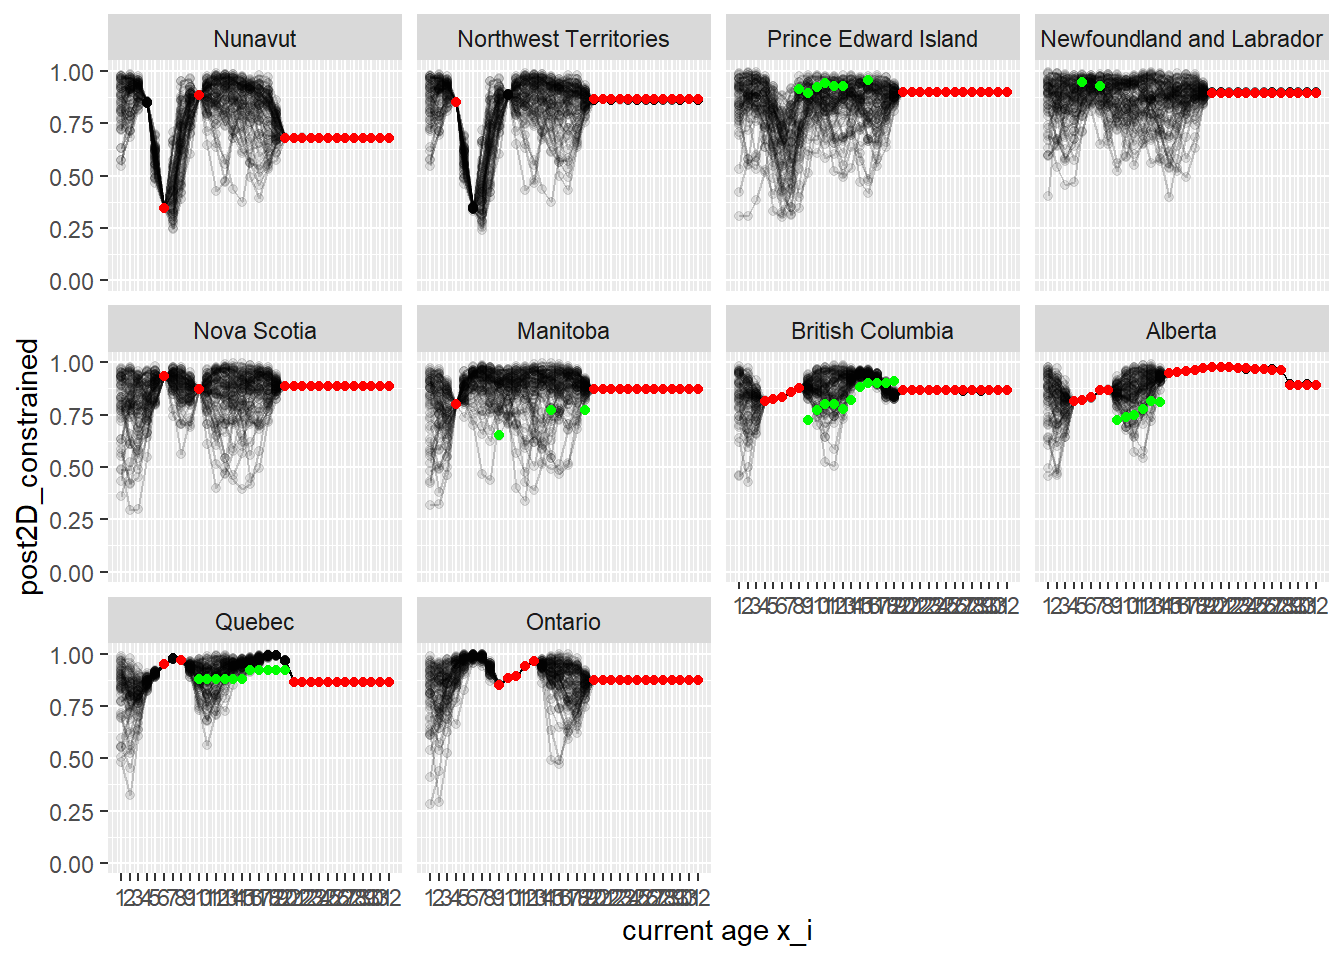
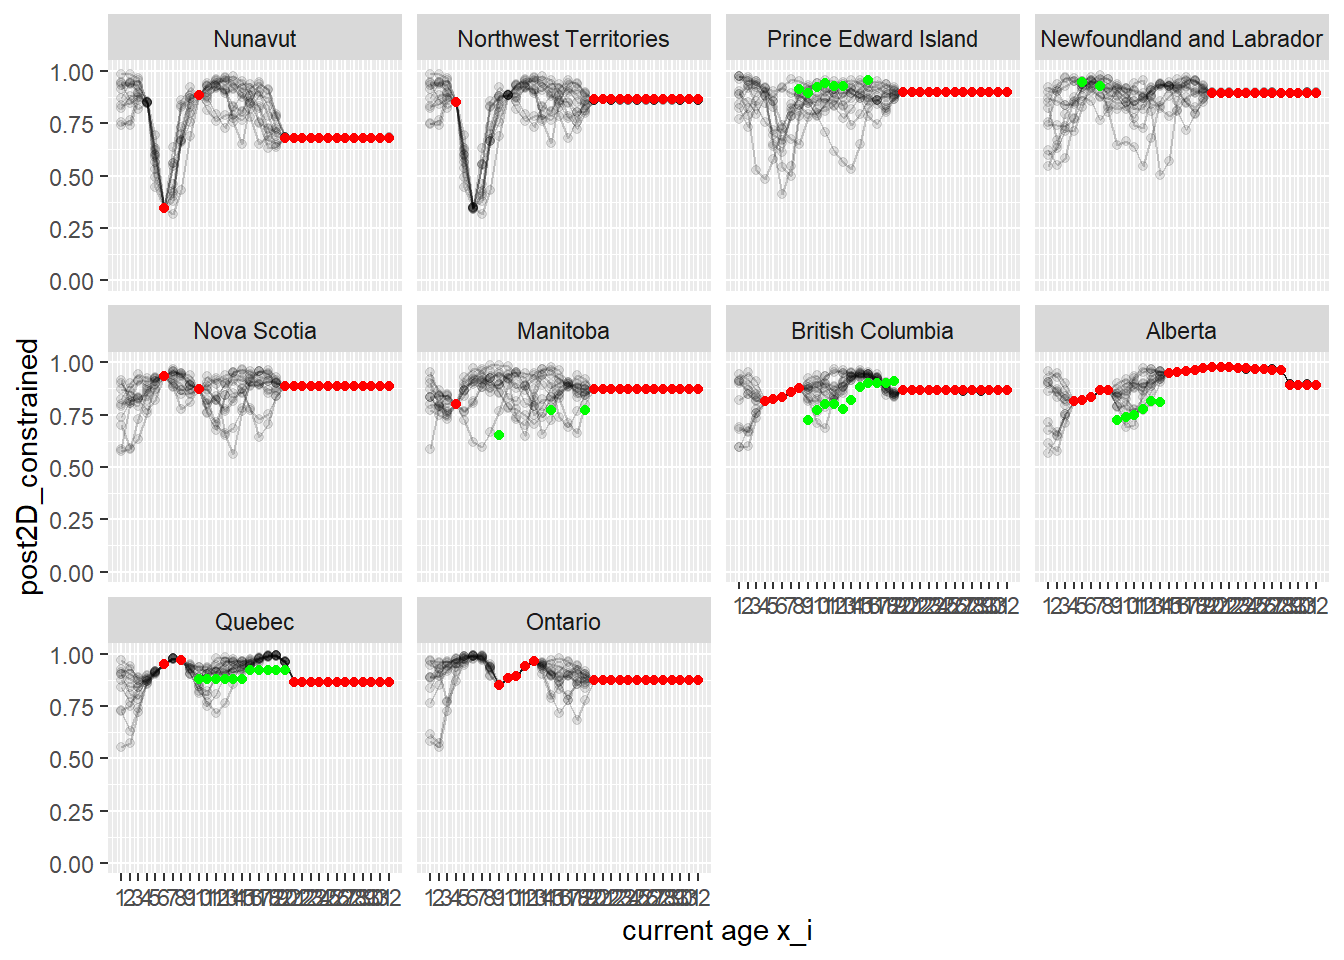
2-dose minimums attempt

diff --git a/rendered/gp-model.html b/rendered/gp-model.html
@@ -338,7 +338,7 @@ window.Quarto = {
 <span id="cb12-15"><a href="#cb12-15" aria-hidden="true" tabindex="-1"></a>yvals <span class="ot">&lt;-</span> yvals<span class="sc">*</span>l2  <span class="co"># scale y values to the x lengthscale</span></span>
 <span id="cb12-16"><a href="#cb12-16" aria-hidden="true" tabindex="-1"></a></span>
 <span id="cb12-17"><a href="#cb12-17" aria-hidden="true" tabindex="-1"></a><span class="co">#' covariance matrix in 2D</span></span>
-<span id="cb12-18"><a href="#cb12-18" aria-hidden="true" tabindex="-1"></a>b <span class="ot">&lt;-</span> <span class="dv">1</span> <span class="co"># optional function scale for ksqexp determining output variance</span></span>
+<span id="cb12-18"><a href="#cb12-18" aria-hidden="true" tabindex="-1"></a>b <span class="ot">&lt;-</span> <span class="fl">0.75</span> <span class="co"># optional function scale for ksqexp determining output variance</span></span>
 <span id="cb12-19"><a href="#cb12-19" aria-hidden="true" tabindex="-1"></a>covmat <span class="ot">&lt;-</span> <span class="fu">expand_grid</span>(<span class="at">x1=</span>xvals, <span class="at">y1=</span>yvals, <span class="at">x2=</span>xvals, <span class="at">y2=</span>yvals) <span class="sc">%&gt;%</span> <span class="fu">mutate</span>(<span class="at">k=</span><span class="fu">ksqexp</span>(<span class="fu">sqrt</span>((x1<span class="sc">-</span>x2)<span class="sc">^</span><span class="dv">2</span> <span class="sc">+</span> (y1<span class="sc">-</span>y2)<span class="sc">^</span><span class="dv">2</span>), l1, <span class="at">b=</span>b)) <span class="sc">%&gt;%</span></span>
 <span id="cb12-20"><a href="#cb12-20" aria-hidden="true" tabindex="-1"></a>  <span class="fu">pull</span>(k) <span class="sc">%&gt;%</span> <span class="fu">matrix</span>(<span class="at">nrow=</span>npts)</span>
 <span id="cb12-21"><a href="#cb12-21" aria-hidden="true" tabindex="-1"></a></span>
@@ -421,7 +421,7 @@ window.Quarto = {
 <div class="cell">
 <div class="sourceCode cell-code" id="cb16"><pre class="sourceCode r code-with-copy"><code class="sourceCode r"><span id="cb16-1"><a href="#cb16-1" aria-hidden="true" tabindex="-1"></a><span class="co">#' draw from the posterior distribution and record in dataframe post2D</span></span>
 <span id="cb16-2"><a href="#cb16-2" aria-hidden="true" tabindex="-1"></a>post2D <span class="ot">&lt;-</span> <span class="fu">tibble</span>()</span>
-<span id="cb16-3"><a href="#cb16-3" aria-hidden="true" tabindex="-1"></a><span class="cf">for</span>(i <span class="cf">in</span> <span class="dv">1</span><span class="sc">:</span><span class="dv">50</span>) {  <span class="co"># take 50 posterior draws</span></span>
+<span id="cb16-3"><a href="#cb16-3" aria-hidden="true" tabindex="-1"></a><span class="cf">for</span>(i <span class="cf">in</span> <span class="dv">1</span><span class="sc">:</span><span class="dv">10</span>) {  <span class="co"># take 50 posterior draws</span></span>
 <span id="cb16-4"><a href="#cb16-4" aria-hidden="true" tabindex="-1"></a>  post2D <span class="ot">&lt;-</span> <span class="fu">bind_rows</span>(post2D, <span class="fu">tibble</span>(<span class="at">draw=</span>i, <span class="at">x_i=</span>xygrid<span class="sc">$</span>x, <span class="at">y_i=</span>xygrid<span class="sc">$</span>y, <span class="at">post2D=</span><span class="fu">rmnorm</span>(<span class="dv">1</span>, post_mean, post_covmat <span class="sc">+</span> <span class="fl">1e-6</span><span class="sc">*</span><span class="fu">diag</span>(<span class="fu">nrow</span>(post_covmat)))))  <span class="co"># each rmnorm is a random draw from the (multivariate) posterior</span></span>
 <span id="cb16-5"><a href="#cb16-5" aria-hidden="true" tabindex="-1"></a>}</span>
 <span id="cb16-6"><a href="#cb16-6" aria-hidden="true" tabindex="-1"></a>post2D <span class="ot">&lt;-</span> post2D <span class="sc">%&gt;%</span> <span class="fu">mutate</span>(<span class="at">post2D_constrained=</span><span class="fu">invlogit</span>(post2D <span class="sc">+</span> <span class="fu">mean</span>(<span class="fu">logit</span>(zobs)))) <span class="sc">%&gt;%</span>  <span class="co"># add column to return mean and transform back to [0,1]</span></span>
@@ -507,24 +507,24 @@ window.Quarto = {
 <span id="cb20-15"><a href="#cb20-15" aria-hidden="true" tabindex="-1"></a><span class="co">#' @param l1 x-lengthscale parameter, for use with covariance functions ksqexp and kexp</span></span>
 <span id="cb20-16"><a href="#cb20-16" aria-hidden="true" tabindex="-1"></a><span class="co">#' @param l2 relative lengthscale of x values to y values, for use with covariance functions ksqexp and kexp</span></span>
 <span id="cb20-17"><a href="#cb20-17" aria-hidden="true" tabindex="-1"></a><span class="co">#' @param ndrws specify number of draws to be taken from the prior and posterior distributions</span></span>
-<span id="cb20-18"><a href="#cb20-18" aria-hidden="true" tabindex="-1"></a>run_GP <span class="ot">&lt;-</span> <span class="cf">function</span>(vax_dataset, <span class="at">first_agecurrent=</span><span class="dv">1</span>, <span class="at">last_agecurrent=</span><span class="dv">32</span>, <span class="at">yvals=</span><span class="cn">NA</span>, <span class="at">k=</span><span class="cn">NA</span>, <span class="at">k_name=</span><span class="cn">NA</span>, <span class="at">l1=</span><span class="cn">NA</span>, <span class="at">l2=</span><span class="cn">NA</span>, <span class="at">ndrws=</span><span class="dv">50</span>, <span class="at">b=</span><span class="dv">1</span>) {</span>
-<span id="cb20-19"><a href="#cb20-19" aria-hidden="true" tabindex="-1"></a>  <span class="co">#' define possible x values</span></span>
-<span id="cb20-20"><a href="#cb20-20" aria-hidden="true" tabindex="-1"></a>  xvals <span class="ot">&lt;-</span> first_agecurrent<span class="sc">:</span>last_agecurrent  <span class="co"># a vector of current ages</span></span>
-<span id="cb20-21"><a href="#cb20-21" aria-hidden="true" tabindex="-1"></a></span>
-<span id="cb20-22"><a href="#cb20-22" aria-hidden="true" tabindex="-1"></a>  <span class="co">#' define possible y values</span></span>
-<span id="cb20-23"><a href="#cb20-23" aria-hidden="true" tabindex="-1"></a>  province_relation <span class="ot">&lt;-</span> readr<span class="sc">::</span><span class="fu">read_csv</span>(here<span class="sc">::</span><span class="fu">here</span>(<span class="st">"data"</span>, <span class="st">"3610040201-noSymbol.csv"</span>), <span class="at">show_col_types =</span> F) <span class="sc">%&gt;%</span></span>
-<span id="cb20-24"><a href="#cb20-24" aria-hidden="true" tabindex="-1"></a>    <span class="fu">filter</span>(location <span class="sc">%in%</span> <span class="fu">unique</span>(vax_clean<span class="sc">$</span>location))  <span class="co"># province GDP data from StatCan</span></span>
-<span id="cb20-25"><a href="#cb20-25" aria-hidden="true" tabindex="-1"></a>  prov_levels <span class="ot">&lt;-</span> (province_relation <span class="sc">%&gt;%</span> <span class="fu">pull</span>(location))  <span class="co"># useful shortcut for defining province factors</span></span>
-<span id="cb20-26"><a href="#cb20-26" aria-hidden="true" tabindex="-1"></a>  <span class="cf">if</span> (<span class="fu">is.na</span>(yvals)) yvals <span class="ot">&lt;-</span> <span class="fu">log</span>(province_relation <span class="sc">%&gt;%</span> <span class="fu">pull</span>(Dollars))  <span class="co"># a vector of provinces -- currently log(GDP)</span></span>
-<span id="cb20-27"><a href="#cb20-27" aria-hidden="true" tabindex="-1"></a>  <span class="fu">names</span>(yvals) <span class="ot">&lt;-</span> prov_levels</span>
-<span id="cb20-28"><a href="#cb20-28" aria-hidden="true" tabindex="-1"></a></span>
-<span id="cb20-29"><a href="#cb20-29" aria-hidden="true" tabindex="-1"></a>  <span class="co">#' define covariance and related parameters</span></span>
-<span id="cb20-30"><a href="#cb20-30" aria-hidden="true" tabindex="-1"></a>  <span class="cf">if</span> (<span class="fu">is.na</span>(k)) k <span class="ot">&lt;-</span> ksqexp</span>
-<span id="cb20-31"><a href="#cb20-31" aria-hidden="true" tabindex="-1"></a>  <span class="cf">if</span> (<span class="fu">is.na</span>(k_name)) k_name <span class="ot">&lt;-</span> <span class="st">"ksqexp"</span>  <span class="co"># for plot titles</span></span>
-<span id="cb20-32"><a href="#cb20-32" aria-hidden="true" tabindex="-1"></a>  <span class="cf">if</span> (<span class="fu">is.na</span>(l1)) l1 <span class="ot">&lt;-</span> <span class="fl">1.5</span>  <span class="co"># x lengthscale</span></span>
-<span id="cb20-33"><a href="#cb20-33" aria-hidden="true" tabindex="-1"></a>  <span class="cf">if</span> (<span class="fu">is.na</span>(l2)) l2 <span class="ot">&lt;-</span> <span class="dv">3</span>  <span class="co"># relative lengthscale of x values to y values</span></span>
-<span id="cb20-34"><a href="#cb20-34" aria-hidden="true" tabindex="-1"></a>  yvals <span class="ot">&lt;-</span> yvals<span class="sc">*</span>l2  <span class="co"># scale y values to the x lengthscale</span></span>
-<span id="cb20-35"><a href="#cb20-35" aria-hidden="true" tabindex="-1"></a>  <span class="cf">if</span> (<span class="fu">is.na</span>(b)) b <span class="ot">&lt;-</span> <span class="dv">1</span>  <span class="co"># optional extra parameter for covariance</span></span>
+<span id="cb20-18"><a href="#cb20-18" aria-hidden="true" tabindex="-1"></a><span class="co">#' @param b optional scale for covariance function determining the output variance</span></span>
+<span id="cb20-19"><a href="#cb20-19" aria-hidden="true" tabindex="-1"></a>run_GP <span class="ot">&lt;-</span> <span class="cf">function</span>(vax_dataset, <span class="at">first_agecurrent=</span><span class="dv">1</span>, <span class="at">last_agecurrent=</span><span class="dv">32</span>, <span class="at">yvals=</span><span class="cn">NA</span>, <span class="at">k=</span><span class="cn">NA</span>, <span class="at">k_name=</span><span class="cn">NA</span>, <span class="at">l1=</span><span class="cn">NA</span>, <span class="at">l2=</span><span class="cn">NA</span>, <span class="at">ndrws=</span><span class="dv">50</span>, <span class="at">b=</span><span class="fl">0.75</span>) {</span>
+<span id="cb20-20"><a href="#cb20-20" aria-hidden="true" tabindex="-1"></a>  <span class="co">#' define possible x values</span></span>
+<span id="cb20-21"><a href="#cb20-21" aria-hidden="true" tabindex="-1"></a>  xvals <span class="ot">&lt;-</span> first_agecurrent<span class="sc">:</span>last_agecurrent  <span class="co"># a vector of current ages</span></span>
+<span id="cb20-22"><a href="#cb20-22" aria-hidden="true" tabindex="-1"></a></span>
+<span id="cb20-23"><a href="#cb20-23" aria-hidden="true" tabindex="-1"></a>  <span class="co">#' define possible y values</span></span>
+<span id="cb20-24"><a href="#cb20-24" aria-hidden="true" tabindex="-1"></a>  province_relation <span class="ot">&lt;-</span> readr<span class="sc">::</span><span class="fu">read_csv</span>(here<span class="sc">::</span><span class="fu">here</span>(<span class="st">"data"</span>, <span class="st">"3610040201-noSymbol.csv"</span>), <span class="at">show_col_types =</span> F) <span class="sc">%&gt;%</span></span>
+<span id="cb20-25"><a href="#cb20-25" aria-hidden="true" tabindex="-1"></a>    <span class="fu">filter</span>(location <span class="sc">%in%</span> <span class="fu">unique</span>(vax_clean<span class="sc">$</span>location))  <span class="co"># province GDP data from StatCan</span></span>
+<span id="cb20-26"><a href="#cb20-26" aria-hidden="true" tabindex="-1"></a>  prov_levels <span class="ot">&lt;-</span> (province_relation <span class="sc">%&gt;%</span> <span class="fu">pull</span>(location))  <span class="co"># useful shortcut for defining province factors</span></span>
+<span id="cb20-27"><a href="#cb20-27" aria-hidden="true" tabindex="-1"></a>  <span class="cf">if</span> (<span class="fu">is.na</span>(yvals)) yvals <span class="ot">&lt;-</span> <span class="fu">log</span>(province_relation <span class="sc">%&gt;%</span> <span class="fu">pull</span>(Dollars))  <span class="co"># a vector of provinces -- currently log(GDP)</span></span>
+<span id="cb20-28"><a href="#cb20-28" aria-hidden="true" tabindex="-1"></a>  <span class="fu">names</span>(yvals) <span class="ot">&lt;-</span> prov_levels</span>
+<span id="cb20-29"><a href="#cb20-29" aria-hidden="true" tabindex="-1"></a></span>
+<span id="cb20-30"><a href="#cb20-30" aria-hidden="true" tabindex="-1"></a>  <span class="co">#' define covariance and related parameters</span></span>
+<span id="cb20-31"><a href="#cb20-31" aria-hidden="true" tabindex="-1"></a>  <span class="cf">if</span> (<span class="fu">is.na</span>(k)) k <span class="ot">&lt;-</span> ksqexp</span>
+<span id="cb20-32"><a href="#cb20-32" aria-hidden="true" tabindex="-1"></a>  <span class="cf">if</span> (<span class="fu">is.na</span>(k_name)) k_name <span class="ot">&lt;-</span> <span class="st">"ksqexp"</span>  <span class="co"># for plot titles</span></span>
+<span id="cb20-33"><a href="#cb20-33" aria-hidden="true" tabindex="-1"></a>  <span class="cf">if</span> (<span class="fu">is.na</span>(l1)) l1 <span class="ot">&lt;-</span> <span class="fl">1.5</span>  <span class="co"># x lengthscale</span></span>
+<span id="cb20-34"><a href="#cb20-34" aria-hidden="true" tabindex="-1"></a>  <span class="cf">if</span> (<span class="fu">is.na</span>(l2)) l2 <span class="ot">&lt;-</span> <span class="dv">3</span>  <span class="co"># relative lengthscale of x values to y values</span></span>
+<span id="cb20-35"><a href="#cb20-35" aria-hidden="true" tabindex="-1"></a>  yvals <span class="ot">&lt;-</span> yvals<span class="sc">*</span>l2  <span class="co"># scale y values to the x lengthscale</span></span>
 <span id="cb20-36"><a href="#cb20-36" aria-hidden="true" tabindex="-1"></a></span>
 <span id="cb20-37"><a href="#cb20-37" aria-hidden="true" tabindex="-1"></a>  <span class="co">#' compute and plot prior</span></span>
 <span id="cb20-38"><a href="#cb20-38" aria-hidden="true" tabindex="-1"></a>  prior2D <span class="ot">&lt;-</span> <span class="fu">compute_prior2D</span>(<span class="at">xvals=</span>xvals, <span class="at">yvals=</span>yvals, <span class="at">k=</span>k, <span class="at">l1=</span>l1, <span class="at">ndrws=</span>ndrws, <span class="at">prov_levels=</span>prov_levels, <span class="at">b=</span>b)</span>
@@ -596,32 +596,32 @@ window.Quarto = {
 # A tibble: 16,000 × 5
     draw   x_i   y_i prior2D y_label                  
    &lt;int&gt; &lt;int&gt; &lt;dbl&gt;   &lt;dbl&gt; &lt;fct&gt;                    
- 1     1     1  25.0  -1.39  Nunavut                  
- 2     1     1  25.0  -1.38  Northwest Territories    
- 3     1     1  26.8  -0.541 Prince Edward Island     
- 4     1     1  30.9  -0.223 Newfoundland and Labrador
- 5     1     1  32.2   0.432 Nova Scotia              
- 6     1     1  33.5   1.03  Manitoba                 
- 7     1     1  38.0   0.814 British Columbia         
- 8     1     1  38.3   0.966 Alberta                  
- 9     1     1  39.0   0.906 Quebec                   
-10     1     1  41.1  -0.615 Ontario                  
+ 1     1     1  25.0  2.08   Nunavut                  
+ 2     1     1  25.0  2.07   Northwest Territories    
+ 3     1     1  26.8  0.0541 Prince Edward Island     
+ 4     1     1  30.9 -0.721  Newfoundland and Labrador
+ 5     1     1  32.2 -0.637  Nova Scotia              
+ 6     1     1  33.5  0.204  Manitoba                 
+ 7     1     1  38.0  0.721  British Columbia         
+ 8     1     1  38.3  0.857  Alberta                  
+ 9     1     1  39.0  0.869  Quebec                   
+10     1     1  41.1 -0.335  Ontario                  
 # ℹ 15,990 more rows
 
 [[2]]
 # A tibble: 16,000 × 6
-    draw   x_i   y_i y_label                   post2D post2D_constrained
-   &lt;int&gt; &lt;int&gt; &lt;dbl&gt; &lt;fct&gt;                      &lt;dbl&gt;              &lt;dbl&gt;
- 1     1     1  25.0 Nunavut                   -0.535              0.813
- 2     1     1  25.0 Northwest Territories     -0.514              0.816
- 3     1     1  26.8 Prince Edward Island       1.11               0.958
- 4     1     1  30.9 Newfoundland and Labrador  0.484              0.923
- 5     1     1  32.2 Nova Scotia                0.331              0.912
- 6     1     1  33.5 Manitoba                  -0.214              0.857
- 7     1     1  38.0 British Columbia          -1.03               0.725
- 8     1     1  38.3 Alberta                   -0.997              0.732
- 9     1     1  39.0 Quebec                    -0.820              0.766
-10     1     1  41.1 Ontario                   -0.438              0.827
+    draw   x_i   y_i y_label                    post2D post2D_constrained
+   &lt;int&gt; &lt;int&gt; &lt;dbl&gt; &lt;fct&gt;                       &lt;dbl&gt;              &lt;dbl&gt;
+ 1     1     1  25.0 Nunavut                   -0.952               0.741
+ 2     1     1  25.0 Northwest Territories     -0.952               0.741
+ 3     1     1  26.8 Prince Edward Island      -0.372               0.836
+ 4     1     1  30.9 Newfoundland and Labrador -1.36                0.655
+ 5     1     1  32.2 Nova Scotia                0.0267              0.884
+ 6     1     1  33.5 Manitoba                   0.616               0.932
+ 7     1     1  38.0 British Columbia          -0.939               0.744
+ 8     1     1  38.3 Alberta                   -1.46                0.633
+ 9     1     1  39.0 Quebec                    -1.99                0.503
+10     1     1  41.1 Ontario                    0.281               0.908
 # ℹ 15,990 more rows</code></pre>
 </div>
 </div>
